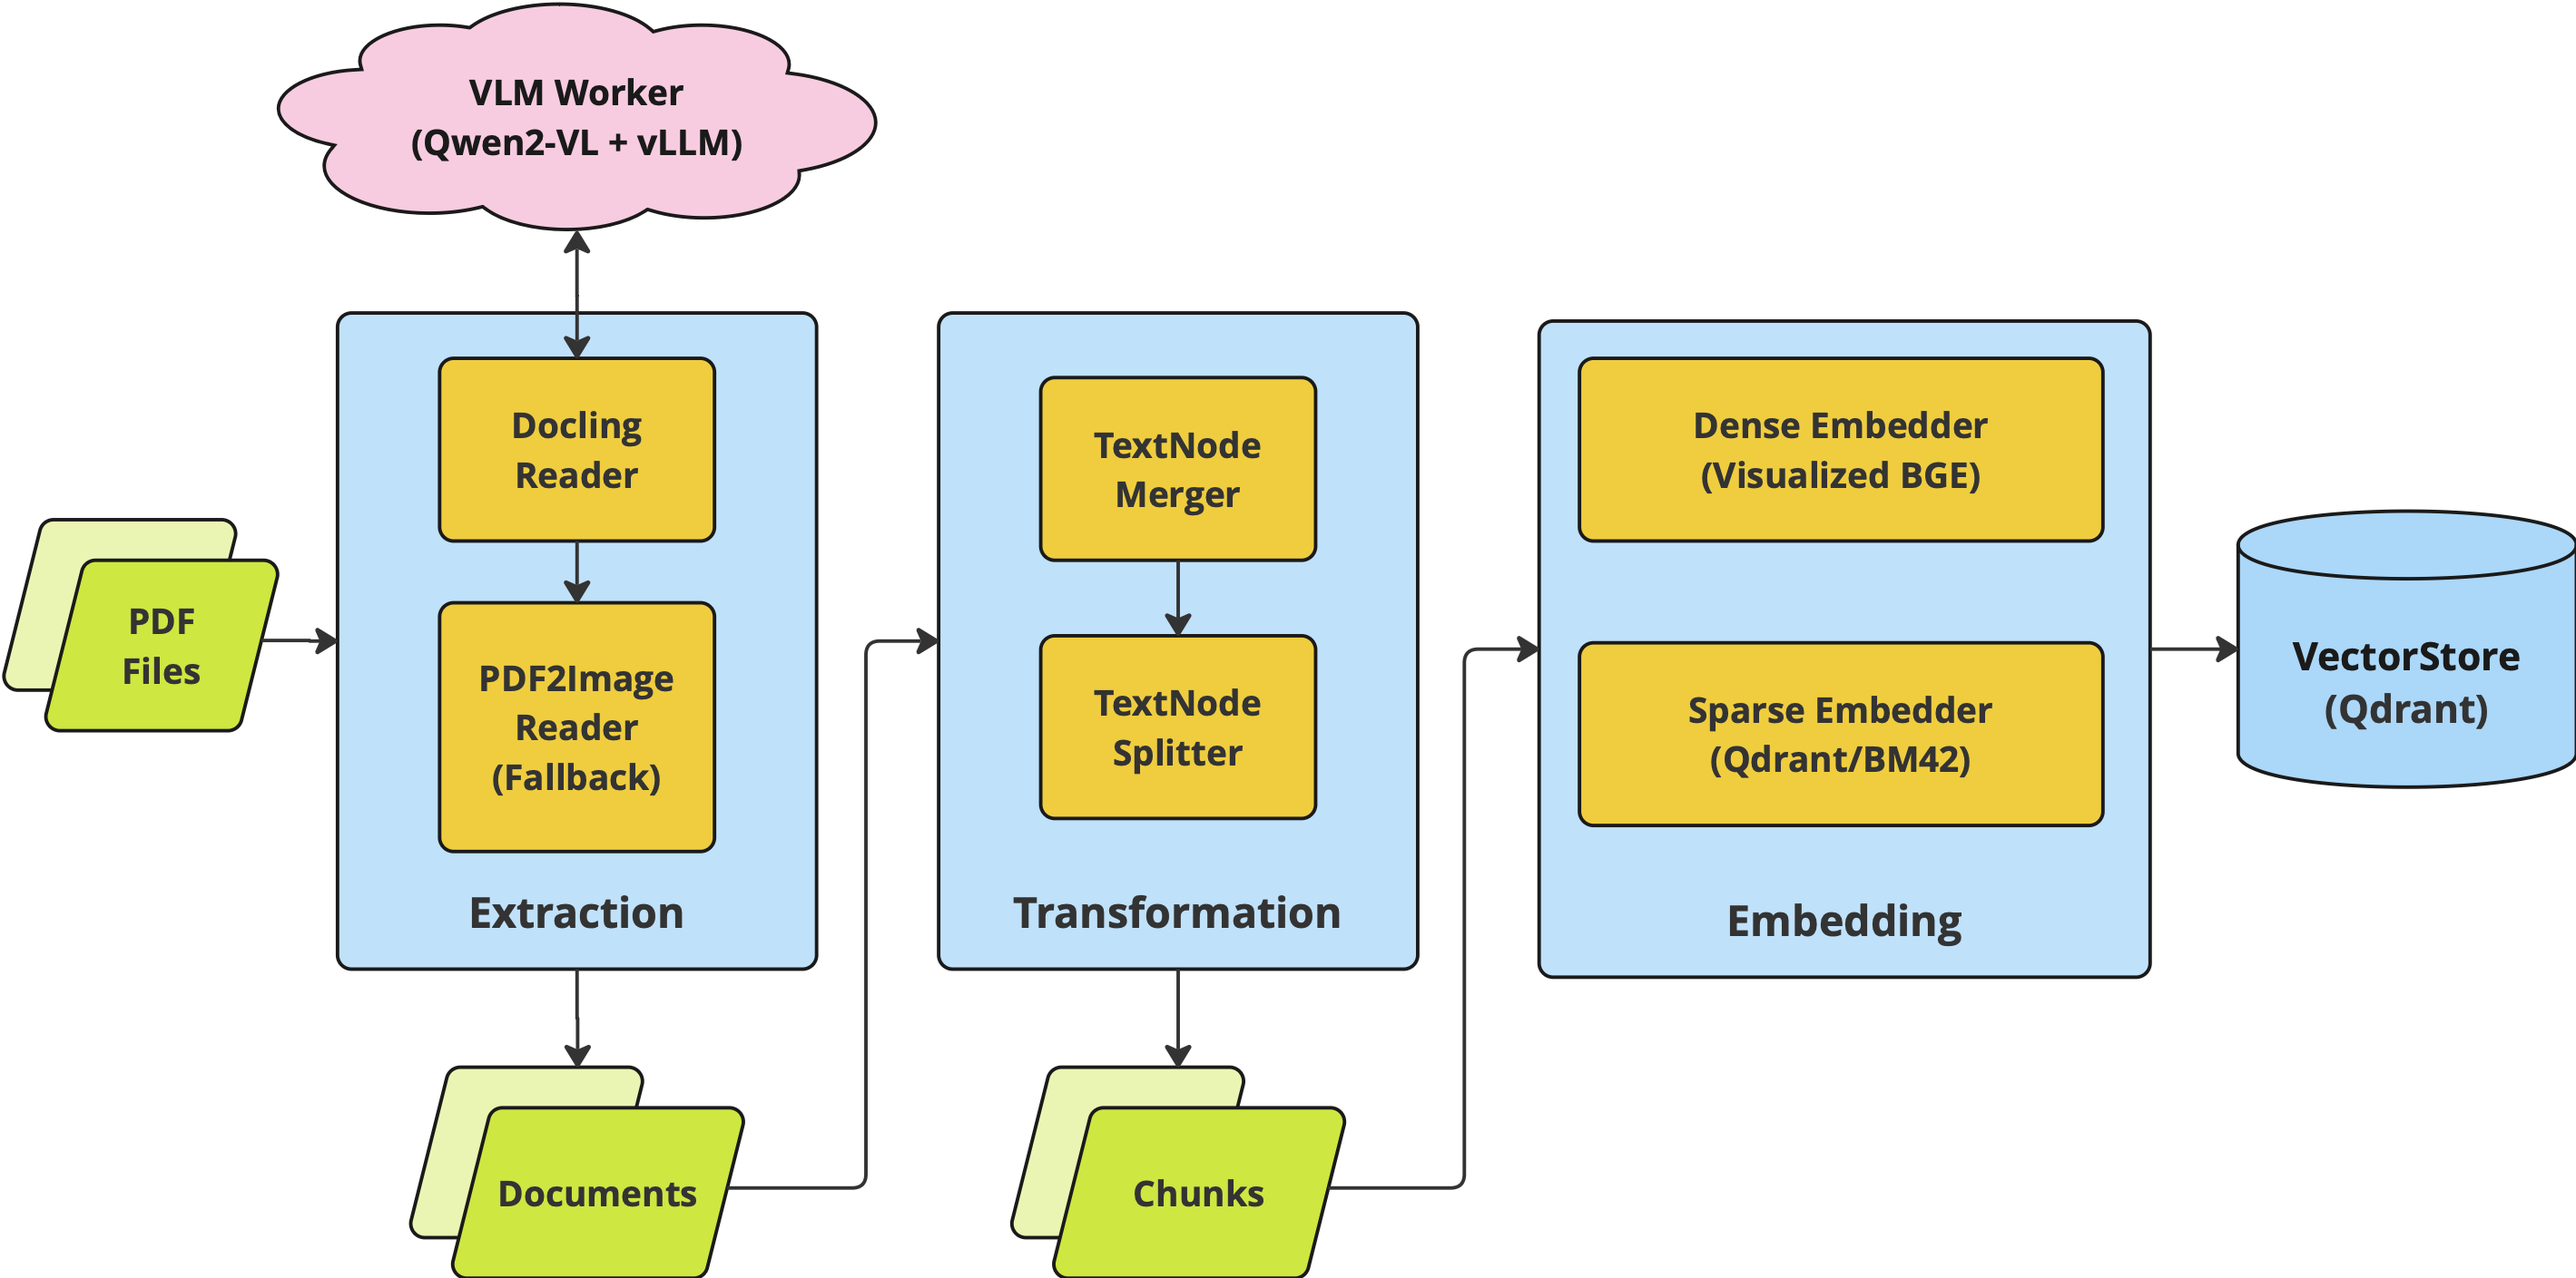
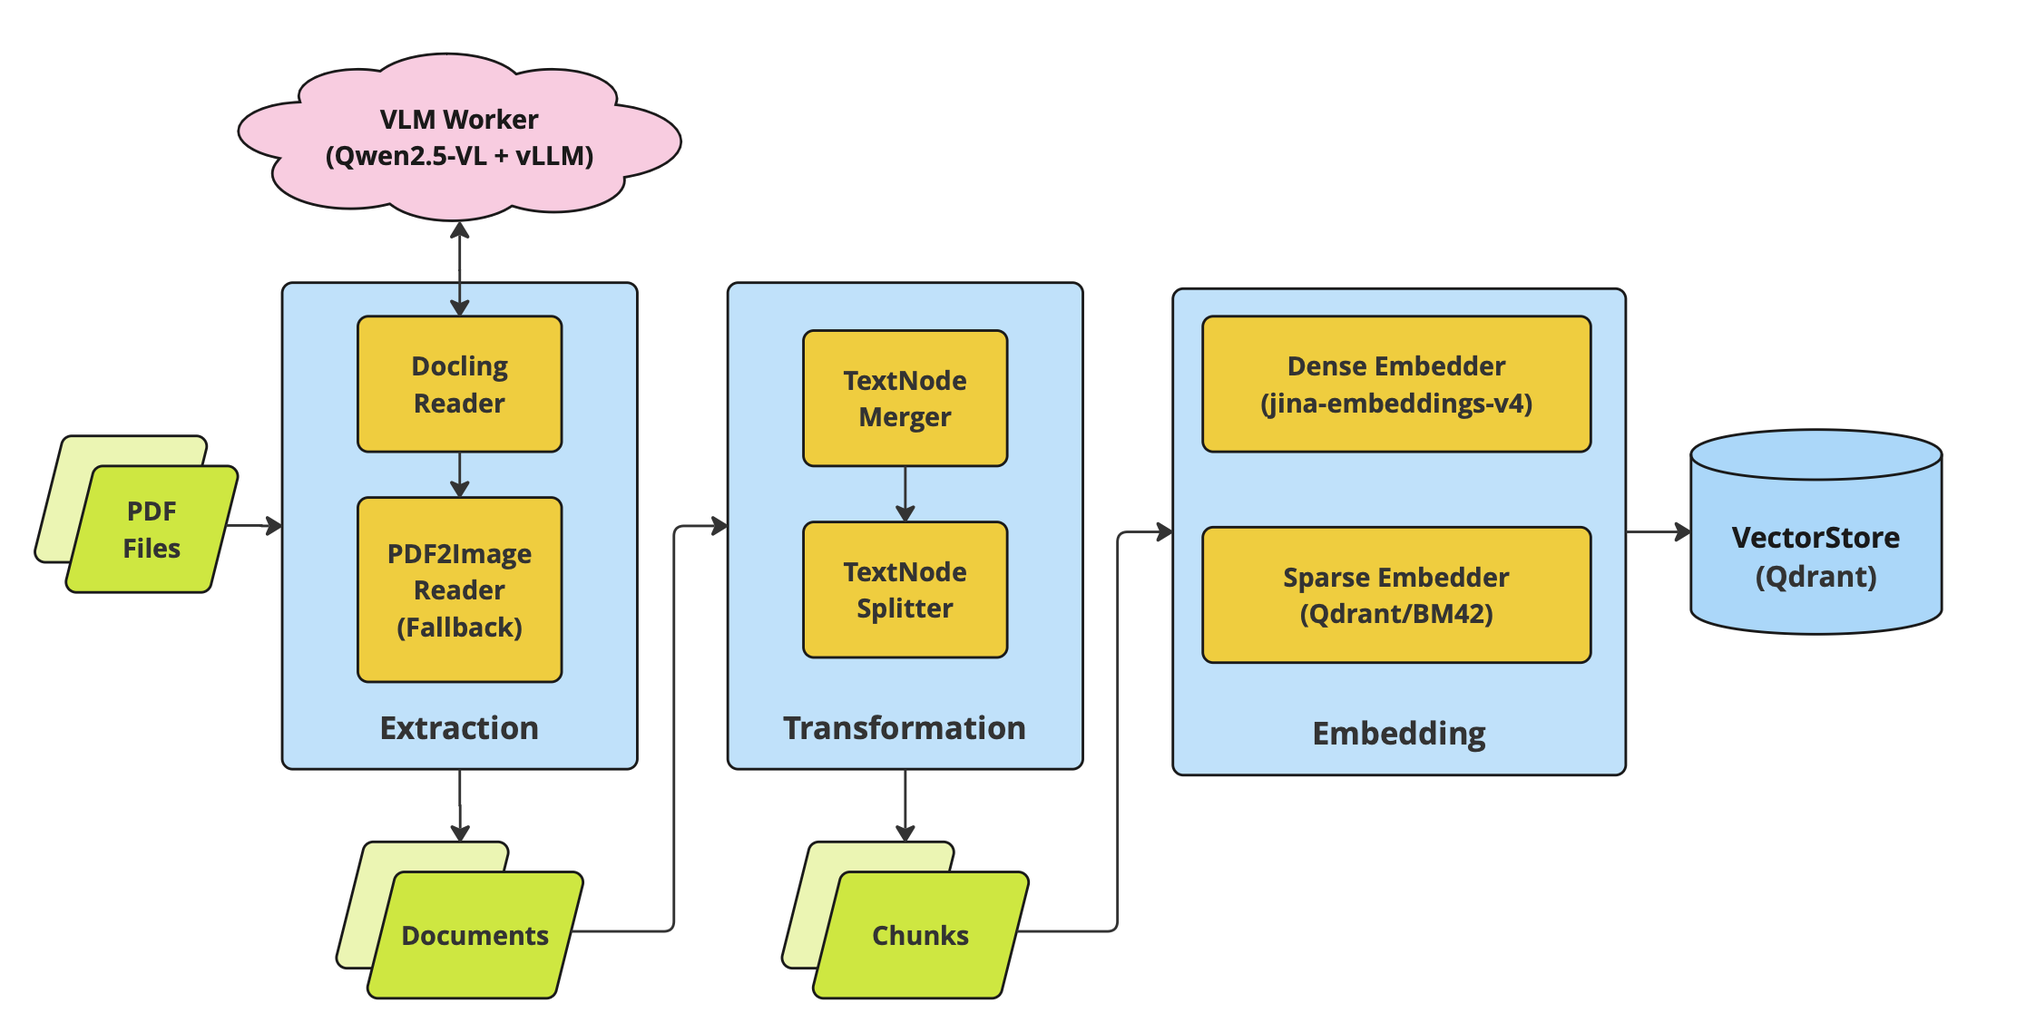
[edit] update readme

Changed region(s): [[0.0, 0.0, 1.0, 1.0]]

diff --git a/README.md b/README.md
@@ -18,7 +18,7 @@ framework for building multi-modal first document retriever
     * detailed descriptions are available [here](docs/psiking_core.md)
 
 
-### Pipeline Flow
+### Ingestion Pipeline
 Document Ingestion Flow example:
 * (Doc) Collection -> Extraction -> Transformation -> Index(?)
     * Extraction: read file into `Document` instance
@@ -29,16 +29,21 @@ Document Ingestion Flow example:
 
 ## Example
 ### allganize-RAG-Evaluation-Dataset-KO PDF dataset
-* Reading PDF files and indexing into qdrant DB for retrieval
-    * data: real-life pdf files from [`allganize-RAG-Evaluation-Dataset-KO`](https://huggingface.co/datasets/allganize/RAG-Evaluation-Dataset-KO)
-        * parse using docling & pdf2image
-    * models: [`Visualized_BGE` (bge-m3)](https://huggingface.co/BAAI/bge-visualized) + [Qdrant/BM42 (all_miniLM_L6_v2_with_attentions)](https://huggingface.co/Qdrant/all_miniLM_L6_v2_with_attentions)
-    * db: qdrant (dense + sparse)
-* ingestion pipeline: [notebook (3_3_allganize_ingestion_multimodal_hybrid)](examples/allganize-rag-evaluation/ingestion_multimodal_hybrid_v2502.ipynb)
-    * use 'finance' domain PDF files
+Reading PDF files and indexing into qdrant DB for retrieval ([[examples/allganize-rag-evaluation]](./examples/allganize-rag-evaluation/))
+* **data**: real-life pdf files from [`allganize-RAG-Evaluation-Dataset-KO`](https://huggingface.co/datasets/allganize/RAG-Evaluation-Dataset-KO)
+* **models**: [jina-embeddings-v4](https://huggingface.co/jinaai/jina-embeddings-v4-vllm-retrieval/discussions/1) + [Qdrant/BM42](https://huggingface.co/Qdrant/all_miniLM_L6_v2_with_attentions)
+* **db**: qdrant (dense + sparse)
 
-Pipeline Overview:
-![3_3_overview](./examples/allganize-rag-evaluation/figs/ingestion_multimodal_hybrid_overview.png)
+
+**Pipeline Overview**
+![3_3_overview](./examples/allganize-rag-evaluation/docs/figs/ingestion_multimodal_hybrid_overview.png)
+
+
+### BeIR (scifact) Retrieval Benchmark
+Indexing BeIR text retrieval benchmark ([[./examples/beir]](./examples/beir))
+* **data**: `scifact` data from BeIR: [hflink](https://huggingface.co/BeIR)
+* **models**: [bge-m3](https://huggingface.co/BAAI/bge-m3), [Qdrant/BM42](https://huggingface.co/Qdrant/all_miniLM_L6_v2_with_attentions)
+* **db**: qdrant (dense + sparse)
 
 ## Experiments
 ### Korean sparse search with vectordb
